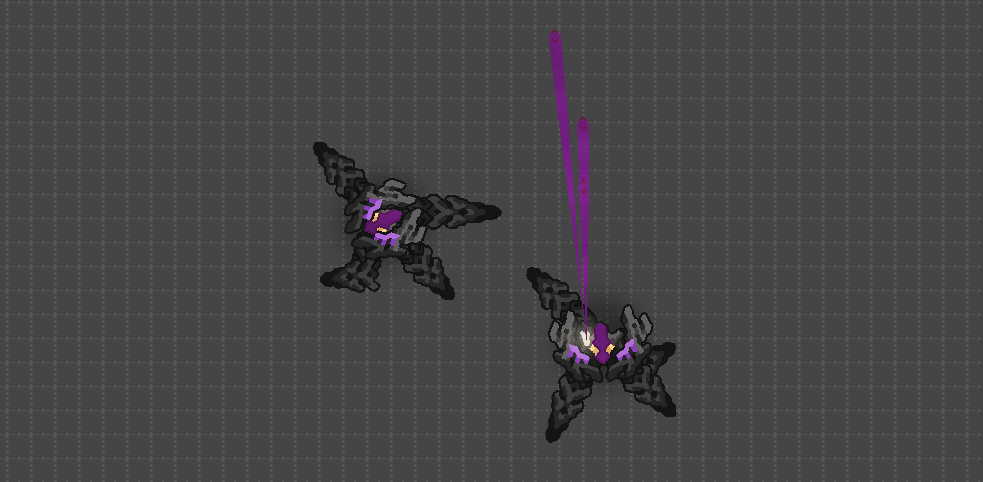
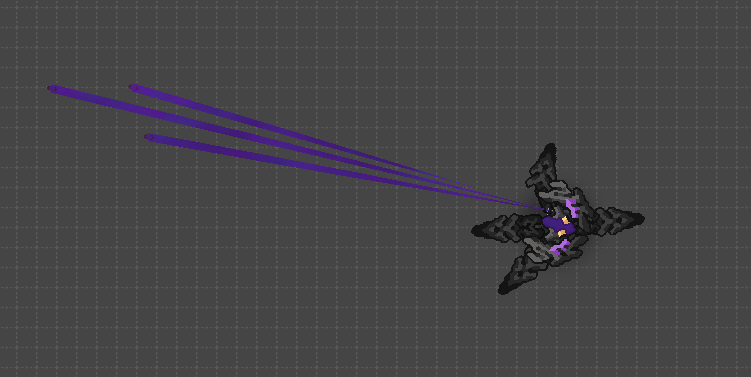
Баг фиксы
воид страйдер больше не долшжен крашить игру

Changed region(s): [[0.0613, 0.0584, 0.8575, 0.9337]]

diff --git a/src/org/durmiendo/sueno/net/RemoteMethods.java b/src/org/durmiendo/sueno/net/RemoteMethods.java
@@ -1,38 +1,27 @@
 package org.durmiendo.sueno.net;
 
-import arc.util.Log;
-import mindustry.Vars;
-import mindustry.annotations.Annotations;
-import mindustry.content.Blocks;
-import mindustry.entities.Units;
-import mindustry.world.Tile;
-import org.durmiendo.sueno.graphics.VoidStriderCollapseEffectController;
-import org.durmiendo.sueno.gen.VoidStriderc;
-import org.durmiendo.sueno.graphics.VoidStriderCollapseEffectController;
-import org.durmiendo.sueno.world.units.types.VoidStriderUnitType;
-
 public class RemoteMethods {
-    @Annotations.Remote(targets = Annotations.Loc.server, called = Annotations.Loc.both)
-    public static void voidStriderCollapse(VoidStriderc voidStriderc) {
-        float x = voidStriderc.x();
-        float y = voidStriderc.y();
-        float radius = 0;
-
-        if (voidStriderc.type() instanceof VoidStriderUnitType voidStriderUnitType) {
-            radius = voidStriderUnitType.collapseRadius;
-            VoidStriderCollapseEffectController.at(x, y, voidStriderUnitType.collapseEffect);
-        } else
-            Log.err("Type of @ must be VoidStriderUnitType (not @) for correct collapsing effects.\nCollapses with this unitType will be incorrect.",
-                    voidStriderc, voidStriderc.type());
-
-        Vars.indexer.allBuildings(x, y, radius, tile -> {
-            tile.tile().setBlock(Blocks.air);
-        });
-        final float finalRange = radius;
-        Units.nearby(x - radius, y - radius, radius * 2f, radius * 2f, u -> {
-            if (u != voidStriderc && u.within(x, y, finalRange + u.hitSize/2f))
-                u.destroy();
-        });
-    }
+    //@Annotations.Remote(targets = Annotations.Loc.server, called = Annotations.Loc.both)
+//    public static void voidStriderCollapse(VoidStriderc voidStriderc) {
+//        float x = voidStriderc.x();
+//        float y = voidStriderc.y();
+//        float radius = 0;
+//
+//        if (voidStriderc.type() instanceof VoidStriderUnitType voidStriderUnitType) {
+//            radius = voidStriderUnitType.collapseRadius;
+//            VoidStriderCollapseEffectController.at(x, y, voidStriderUnitType.collapseEffect);
+//        } else
+//            Log.err("Type of @ must be VoidStriderUnitType (not @) for correct collapsing effects.\nCollapses with this unitType will be incorrect.",
+//                    voidStriderc, voidStriderc.type());
+//
+//        Vars.indexer.allBuildings(x, y, radius, tile -> {
+//            tile.tile().setBlock(Blocks.air);
+//        });
+//        final float finalRange = radius;
+//        Units.nearby(x - radius, y - radius, radius * 2f, radius * 2f, u -> {
+//            if (u != voidStriderc && u.within(x, y, finalRange + u.hitSize/2f))
+//                u.destroy();
+//        });
+//    }
 }
 

diff --git a/src/org/durmiendo/sueno/world/units/types/VoidStriderUnitType.java b/src/org/durmiendo/sueno/world/units/types/VoidStriderUnitType.java
@@ -5,14 +5,16 @@ import arc.Events;
 import arc.graphics.Color;
 import arc.graphics.g2d.Draw;
 import arc.graphics.g2d.TextureRegion;
+import arc.math.Mathf;
+import arc.math.geom.Geometry;
 import mindustry.Vars;
 import mindustry.game.EventType;
+import mindustry.gen.Building;
+import mindustry.gen.Groups;
 import mindustry.gen.Unit;
+import mindustry.gen.Unitc;
 import mindustry.type.UnitType;
-import org.durmiendo.sueno.graphics.SEffect;
-import org.durmiendo.sueno.graphics.SFx;
-import org.durmiendo.sueno.graphics.SLayers;
-import org.durmiendo.sueno.graphics.SShaders;
+import org.durmiendo.sueno.graphics.*;
 
 public class VoidStriderUnitType extends UnitType {
     public SEffect collapseEffect = SFx.voidStriderCollapseEffect;
@@ -44,5 +46,19 @@ public class VoidStriderUnitType extends UnitType {
 
         Draw.z(SLayers.voidspace);
         Draw.rect(vessel, unit.x, unit.y, unit.rotation - 90f);
+    }
+
+    @Override
+    public void killed(Unit unit) {
+        super.killed(unit);
+
+        VoidStriderCollapseEffectController.at(unit.x, unit.y, collapseEffect);
+        Geometry.circle(Mathf.round(unit.x / 8f), Mathf.round(unit.y / 8f), Mathf.round(collapseRadius/8f), (x, y) -> {
+            Building b = Vars.world.build(x, y);
+            if (b != null) {
+                b.kill();
+            }
+        });
+        Groups.unit.each(u -> u.dst(unit.x, unit.y) < collapseRadius, Unitc::remove);
     }
 }

diff --git a/src/org/durmiendo/sueno/core/Setter.java b/src/org/durmiendo/sueno/core/Setter.java
@@ -1,0 +1,27 @@
+package org.durmiendo.sueno.core;
+
+import arc.Core;
+import arc.Events;
+import arc.util.Time;
+import mindustry.game.EventType;
+import mindustry.ui.Styles;
+import mindustry.ui.dialogs.BaseDialog;
+
+public class Setter {
+    public static void load() {
+        loadUI();
+    }
+
+    private static void loadUI() {
+        Events.on(EventType.ClientLoadEvent.class, e -> {
+            Time.runTask(10f, () -> {
+                BaseDialog dialog = new BaseDialog("@mod.notification");
+                dialog.setStyle(Styles.defaultDialog);
+                dialog.cont.add("@mod.notification.not-completed.message").row();
+                dialog.cont.check("@mod.notification.dont-show", Core.settings.getBool("not-completed-message"), (a) -> Core.settings.put("not-completed-message", a)).size(100f, 50f).row();
+                dialog.cont.button("@mod.notification.ok", dialog::hide).size(100f, 50f);
+                dialog.show();
+            });
+        });
+    }
+}

diff --git a/src/org/durmiendo/sueno/content/SUnits.java b/src/org/durmiendo/sueno/content/SUnits.java
@@ -730,6 +730,7 @@ public class SUnits {
         }};
 
         voidStrider = new VoidStriderUnitType("void-strider"){{
+
             outlineColor = Color.valueOf("141414");
             speed = 1.75f;
             hitSize = 26f;
@@ -773,8 +774,8 @@ public class SUnits {
                     hitEffect = despawnEffect = Fx.none;
 
                     homingDelay = 2f;
-                    homingPower = 0;
-                    homingRange = 0;
+                    homingPower = 0.01f;
+                    homingRange = 32f;
 
                     trailColor = Color.valueOf("ffffff");
                     trailLength = 14;
@@ -824,7 +825,7 @@ public class SUnits {
                 reload = 5f;
                 shootX = -10f;
                 shootY = 0f;
-                inaccuracy = 4;
+                inaccuracy = 9;
                 shoot = new ShootPattern() {{
                     shots = 3;
                     shotDelay = 2f;

diff --git a/src/org/durmiendo/sueno/world/units/comps/VoidStriderComp.java b/src/org/durmiendo/sueno/world/units/comps/VoidStriderComp.java
@@ -2,11 +2,8 @@ package org.durmiendo.sueno.world.units.comps;
 
 import arc.util.ArcRuntimeException;
 import mindustry.annotations.Annotations;
-import mindustry.gen.Posc;
 import mindustry.gen.Unitc;
 import mindustry.type.UnitType;
-import org.durmiendo.sueno.gen.SCall;
-import org.durmiendo.sueno.gen.VoidStriderc;
 import org.durmiendo.sueno.world.units.types.VoidStriderUnitType;
 
 @Annotations.Component
@@ -20,6 +17,6 @@ public abstract class VoidStriderComp implements Unitc {
 
     @Override
     public void destroy() {
-        SCall.voidStriderCollapse((VoidStriderc) this);
+        //SCall.voidStriderCollapse((VoidStriderc) this);
     }
 }

diff --git a/src/org/durmiendo/sueno/core/SCore.java b/src/org/durmiendo/sueno/core/SCore.java
@@ -19,8 +19,6 @@ import org.durmiendo.sueno.graphics.VoidStriderCollapseEffectController;
 import org.durmiendo.sueno.temperature.TemperatureCustomChunk;
 import org.durmiendo.sueno.utils.SLog;
 
-import static arc.Core.settings;
-
 @ModAnnotations.AnnotationSettings(
         rootPackage = "org.durmiendo.sueno",
         modInfoPath = "res/mod.json",
@@ -65,7 +63,7 @@ public class SCore extends Mod {
 //        }
         SVars.ui.build();
 
-        settings.put("campaignselect", true);
+        Core.settings.put("campaignselect", true);
 
         Vars.renderer.maxZoom = 30f;
         SLog.info("max zoom setting from: 30.0f");

diff --git a/src/org/durmiendo/sueno/entities/effect/StatusEntity.java b/src/org/durmiendo/sueno/entities/effect/StatusEntity.java
@@ -1,13 +1,6 @@
 package org.durmiendo.sueno.entities.effect;
 
-import mindustry.ctype.Content;
-import mindustry.ctype.UnlockableContent;
 import mindustry.gen.Building;
-import mindustry.gen.Entityc;
-import mindustry.gen.Unit;
-import org.durmiendo.sueno.gen.IndexableEntity__all;
-import org.durmiendo.sueno.gen.IndexableEntity__draw;
-import org.durmiendo.sueno.gen.IndexableEntity__sync;
 import org.durmiendo.sueno.type.effects.SStatusEffect;
 
 public class StatusEntity {

diff --git a/src/org/durmiendo/sueno/graphics/VoidStriderCollapseEffectController.java b/src/org/durmiendo/sueno/graphics/VoidStriderCollapseEffectController.java
@@ -33,7 +33,6 @@ public class VoidStriderCollapseEffectController {
     }
 
     public static void draw() {
-
         Draw.sort(false);
         Draw.proj(Core.camera);
 
